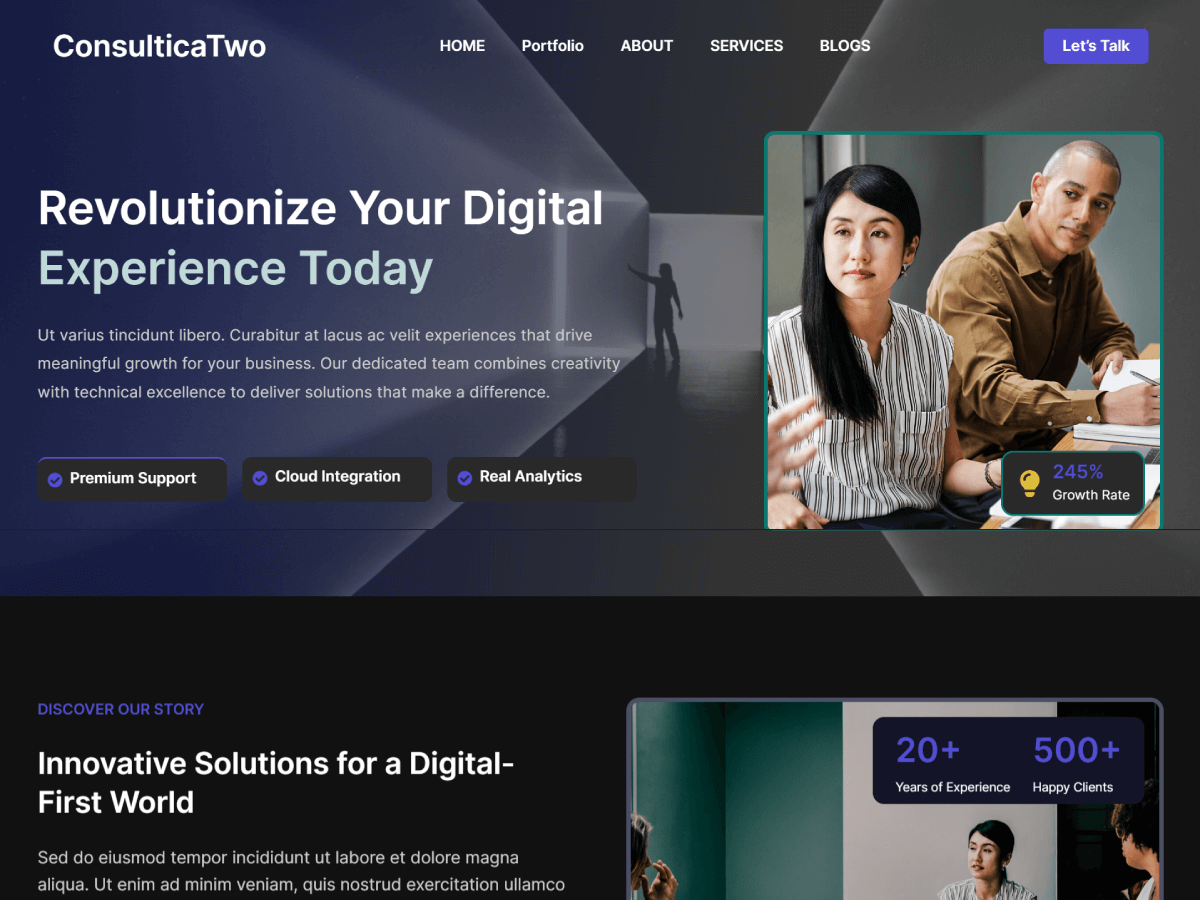
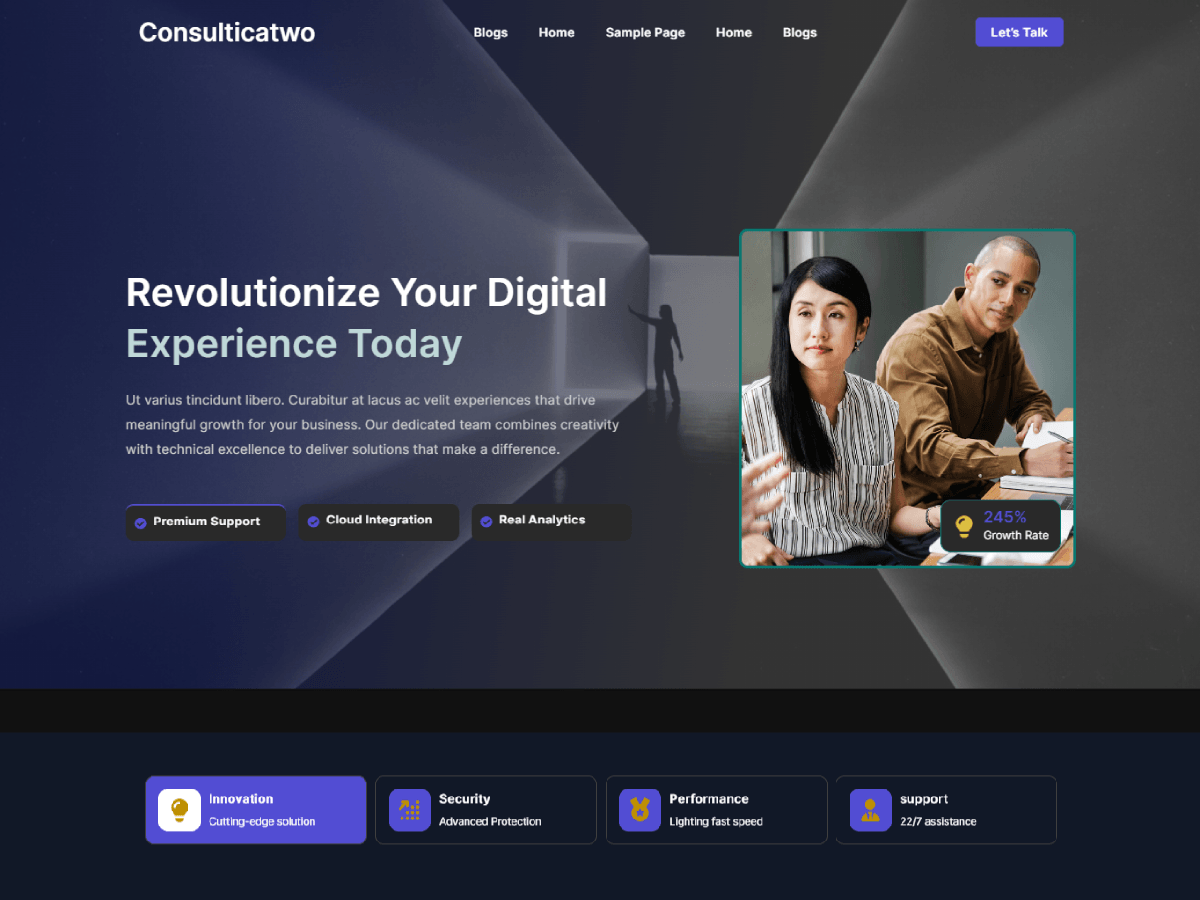
fixed

diff --git a/style.css b/style.css
@@ -3,11 +3,11 @@ Theme Name: Consulticatwo
 Theme URI: https://trendthemeswp.com/products/consultica/
 Author: Trendthemeswp 
 Author URI: https://trendthemeswp.com
-Description: Consulticatwo is a modern, professional, and performance-optimized child theme of Consultica, crafted especially for businesses, startups, and corporate service providers. With its sleek design, flexible block-based layouts, and intuitive customization options, it empowers you to create a stunning online presence that reflects your brand’s professionalism. Whether you run a consulting agency, financial firm, or any business-oriented website, consulticatwo delivers a clean, responsive, and SEO-friendly foundation to showcase your services and grow your client base with confidence.  Check the real demo:  https://demos.trendthemeswp.com/consulticatwo
+Description: Consulticatwo is a modern, professional, and performance-optimized child theme of Consultica, Consulticatwoa is a Full Site Editing (FSE) WordPress theme created for professional business and corporate websites. It features flexible block customization, responsive layouts, and pre-designed patterns and templates for key business areas.   Check the real demo:  https://demos.trendthemeswp.com/consulticatwo
 Template: consultica
-Requires at least: 5.9
-Tested up to: 6.8
-Requires PHP: 7.4
+Requires at least: 6.0
+Tested up to: 7.0
+Requires PHP: 7.0
 Version: 1.0.0
 License: GNU General Public License v2 or later
 License URI: http://www.gnu.org/licenses/gpl-2.0.html

diff --git a/patterns/features-one.php b/patterns/features-one.php
@@ -40,7 +40,7 @@
 
 <!-- wp:buttons {"style":{"spacing":{"padding":{"top":"var:preset|spacing|60"}}},"layout":{"type":"flex","justifyContent":"center"}} -->
 <div class="wp-block-buttons" style="padding-top:var(--wp--preset--spacing--60)"><!-- wp:button {"backgroundColor":"base","textColor":"assets-one","style":{"spacing":{"padding":{"top":"var:preset|spacing|20","bottom":"var:preset|spacing|20"}},"border":{"radius":"12px"},"elements":{"link":{"color":{"text":"var:preset|color|assets-one"}}}}} -->
-<div class="wp-block-button"><a class="wp-block-button__link has-assets-one-color has-base-background-color has-text-color has-background has-link-color wp-element-button" style="border-radius:12px;padding-top:var(--wp--preset--spacing--20);padding-bottom:var(--wp--preset--spacing--20)"><?php echo esc_html__('Learn More', 'consulticatwo'); ?></a></div>
+<div class="wp-block-button"><a class="wp-block-button__link has-assets-one-color has-base-background-color has-text-color has-background has-link-color wp-element-button" href="#" style="border-radius:12px;padding-top:var(--wp--preset--spacing--20);padding-bottom:var(--wp--preset--spacing--20)"><?php echo esc_html__('Learn More', 'consulticatwo'); ?></a></div>
 <!-- /wp:button --></div>
 <!-- /wp:buttons --></div>
 <!-- /wp:column -->
@@ -64,7 +64,7 @@
 
 <!-- wp:buttons {"style":{"spacing":{"padding":{"top":"var:preset|spacing|60"}}},"layout":{"type":"flex","justifyContent":"center"}} -->
 <div class="wp-block-buttons" style="padding-top:var(--wp--preset--spacing--60)"><!-- wp:button {"backgroundColor":"base","textColor":"assets-one","style":{"spacing":{"padding":{"top":"var:preset|spacing|20","bottom":"var:preset|spacing|20"}},"border":{"radius":"12px"},"elements":{"link":{"color":{"text":"var:preset|color|assets-one"}}}}} -->
-<div class="wp-block-button"><a class="wp-block-button__link has-assets-one-color has-base-background-color has-text-color has-background has-link-color wp-element-button" style="border-radius:12px;padding-top:var(--wp--preset--spacing--20);padding-bottom:var(--wp--preset--spacing--20)"><?php echo esc_html__('Learn More', 'consulticatwo'); ?></a></div>
+<div class="wp-block-button"><a class="wp-block-button__link has-assets-one-color has-base-background-color has-text-color has-background has-link-color wp-element-button" href="#" style="border-radius:12px;padding-top:var(--wp--preset--spacing--20);padding-bottom:var(--wp--preset--spacing--20)"><?php echo esc_html__('Learn More', 'consulticatwo'); ?></a></div>
 <!-- /wp:button --></div>
 <!-- /wp:buttons --></div>
 <!-- /wp:column -->
@@ -88,7 +88,7 @@
 
 <!-- wp:buttons {"style":{"spacing":{"padding":{"top":"var:preset|spacing|60"}}},"layout":{"type":"flex","justifyContent":"center"}} -->
 <div class="wp-block-buttons" style="padding-top:var(--wp--preset--spacing--60)"><!-- wp:button {"backgroundColor":"base","textColor":"assets-one","style":{"spacing":{"padding":{"top":"var:preset|spacing|20","bottom":"var:preset|spacing|20"}},"border":{"radius":"12px"},"elements":{"link":{"color":{"text":"var:preset|color|assets-one"}}}}} -->
-<div class="wp-block-button"><a class="wp-block-button__link has-assets-one-color has-base-background-color has-text-color has-background has-link-color wp-element-button" style="border-radius:12px;padding-top:var(--wp--preset--spacing--20);padding-bottom:var(--wp--preset--spacing--20)"><?php echo esc_html__('Learn More', 'consulticatwo'); ?></a></div>
+<div class="wp-block-button"><a class="wp-block-button__link has-assets-one-color has-base-background-color has-text-color has-background has-link-color wp-element-button" href="#" style="border-radius:12px;padding-top:var(--wp--preset--spacing--20);padding-bottom:var(--wp--preset--spacing--20)"><?php echo esc_html__('Learn More', 'consulticatwo'); ?></a></div>
 <!-- /wp:button --></div>
 <!-- /wp:buttons --></div>
 <!-- /wp:column --></div>
@@ -114,7 +114,7 @@
 
 <!-- wp:buttons {"style":{"spacing":{"padding":{"top":"var:preset|spacing|60"}}},"layout":{"type":"flex","justifyContent":"center"}} -->
 <div class="wp-block-buttons" style="padding-top:var(--wp--preset--spacing--60)"><!-- wp:button {"backgroundColor":"base","textColor":"assets-one","style":{"spacing":{"padding":{"top":"var:preset|spacing|20","bottom":"var:preset|spacing|20"}},"border":{"radius":"12px"},"elements":{"link":{"color":{"text":"var:preset|color|assets-one"}}}}} -->
-<div class="wp-block-button"><a class="wp-block-button__link has-assets-one-color has-base-background-color has-text-color has-background has-link-color wp-element-button" style="border-radius:12px;padding-top:var(--wp--preset--spacing--20);padding-bottom:var(--wp--preset--spacing--20)"><?php echo esc_html__('Learn More', 'consulticatwo'); ?></a></div>
+<div class="wp-block-button"><a class="wp-block-button__link has-assets-one-color has-base-background-color has-text-color has-background has-link-color wp-element-button" href="#" style="border-radius:12px;padding-top:var(--wp--preset--spacing--20);padding-bottom:var(--wp--preset--spacing--20)"><?php echo esc_html__('Learn More', 'consulticatwo'); ?></a></div>
 <!-- /wp:button --></div>
 <!-- /wp:buttons --></div>
 <!-- /wp:column -->
@@ -138,7 +138,7 @@
 
 <!-- wp:buttons {"style":{"spacing":{"padding":{"top":"var:preset|spacing|60"}}},"layout":{"type":"flex","justifyContent":"center"}} -->
 <div class="wp-block-buttons" style="padding-top:var(--wp--preset--spacing--60)"><!-- wp:button {"backgroundColor":"base","textColor":"assets-one","style":{"spacing":{"padding":{"top":"var:preset|spacing|20","bottom":"var:preset|spacing|20"}},"border":{"radius":"12px"},"elements":{"link":{"color":{"text":"var:preset|color|assets-one"}}}}} -->
-<div class="wp-block-button"><a class="wp-block-button__link has-assets-one-color has-base-background-color has-text-color has-background has-link-color wp-element-button" style="border-radius:12px;padding-top:var(--wp--preset--spacing--20);padding-bottom:var(--wp--preset--spacing--20)"><?php echo esc_html__('Learn More', 'consulticatwo'); ?></a></div>
+<div class="wp-block-button"><a class="wp-block-button__link has-assets-one-color has-base-background-color has-text-color has-background has-link-color wp-element-button" href="#" style="border-radius:12px;padding-top:var(--wp--preset--spacing--20);padding-bottom:var(--wp--preset--spacing--20)"><?php echo esc_html__('Learn More', 'consulticatwo'); ?></a></div>
 <!-- /wp:button --></div>
 <!-- /wp:buttons --></div>
 <!-- /wp:column -->
@@ -162,7 +162,7 @@
 
 <!-- wp:buttons {"style":{"spacing":{"padding":{"top":"var:preset|spacing|60"}}},"layout":{"type":"flex","justifyContent":"center"}} -->
 <div class="wp-block-buttons" style="padding-top:var(--wp--preset--spacing--60)"><!-- wp:button {"backgroundColor":"base","textColor":"assets-one","style":{"spacing":{"padding":{"top":"var:preset|spacing|20","bottom":"var:preset|spacing|20"}},"border":{"radius":"12px"},"elements":{"link":{"color":{"text":"var:preset|color|assets-one"}}}}} -->
-<div class="wp-block-button"><a class="wp-block-button__link has-assets-one-color has-base-background-color has-text-color has-background has-link-color wp-element-button" style="border-radius:12px;padding-top:var(--wp--preset--spacing--20);padding-bottom:var(--wp--preset--spacing--20)"><?php echo esc_html__('Learn More', 'consulticatwo'); ?></a></div>
+<div class="wp-block-button"><a class="wp-block-button__link has-assets-one-color has-base-background-color has-text-color has-background has-link-color wp-element-button"  href="#" style="border-radius:12px;padding-top:var(--wp--preset--spacing--20);padding-bottom:var(--wp--preset--spacing--20)"><?php echo esc_html__('Learn More', 'consulticatwo'); ?></a></div>
 <!-- /wp:button --></div>
 <!-- /wp:buttons --></div>
 <!-- /wp:column --></div>

diff --git a/patterns/call-to-action-one.php b/patterns/call-to-action-one.php
@@ -12,7 +12,7 @@
 <div class="wp-block-cover has-parallax"><div class="wp-block-cover__image-background wp-image-5279 size-large has-parallax" style="background-position:50% 50%;background-image:url(<?php echo esc_url( get_stylesheet_directory_uri() );?>/assets/images/banner.jpg)"></div><span aria-hidden="true" class="wp-block-cover__background has-primary-background-color has-background-dim-80 has-background-dim"></span><div class="wp-block-cover__inner-container"><!-- wp:group {"style":{"spacing":{"padding":{"top":"var:preset|spacing|80","bottom":"var:preset|spacing|80","left":"var:preset|spacing|30","right":"var:preset|spacing|30"}}},"layout":{"type":"constrained"}} -->
 <div class="wp-block-group" style="padding-top:var(--wp--preset--spacing--80);padding-right:var(--wp--preset--spacing--30);padding-bottom:var(--wp--preset--spacing--80);padding-left:var(--wp--preset--spacing--30)"><!-- wp:buttons {"style":{"spacing":{"margin":{"top":"var:preset|spacing|40"}}},"layout":{"type":"flex","justifyContent":"center"}} -->
 <div class="wp-block-buttons" style="margin-top:var(--wp--preset--spacing--40)"><!-- wp:button {"backgroundColor":"base","textColor":"primary","style":{"elements":{"link":{"color":{"text":"var:preset|color|primary"}}},"typography":{"fontSize":"12px","fontStyle":"normal","fontWeight":"700","lineHeight":"1.6"},"spacing":{"padding":{"left":"var:preset|spacing|30","right":"var:preset|spacing|30","top":"0","bottom":"0"}}}} -->
-<div class="wp-block-button"><a class="wp-block-button__link has-primary-color has-base-background-color has-text-color has-background has-link-color has-custom-font-size wp-element-button" style="padding-top:0;padding-right:var(--wp--preset--spacing--30);padding-bottom:0;padding-left:var(--wp--preset--spacing--30);font-size:12px;font-style:normal;font-weight:700;line-height:1.6"><?php echo esc_html__('Call to Action', 'consulticatwo'); ?></a></div>
+<div class="wp-block-button"><a class="wp-block-button__link has-primary-color has-base-background-color has-text-color has-background has-link-color has-custom-font-size wp-element-button" href="#" style="padding-top:0;padding-right:var(--wp--preset--spacing--30);padding-bottom:0;padding-left:var(--wp--preset--spacing--30);font-size:12px;font-style:normal;font-weight:700;line-height:1.6"><?php echo esc_html__('Call to Action', 'consulticatwo'); ?></a></div>
 <!-- /wp:button --></div>
 <!-- /wp:buttons -->
 
@@ -29,13 +29,13 @@
 <!-- wp:group {"style":{"spacing":{"margin":{"top":"var:preset|spacing|80"},"blockGap":"var:preset|spacing|70"}},"layout":{"type":"flex","flexWrap":"wrap","justifyContent":"center"}} -->
 <div class="wp-block-group" style="margin-top:var(--wp--preset--spacing--80)"><!-- wp:buttons -->
 <div class="wp-block-buttons"><!-- wp:button {"style":{"border":{"radius":"6px"},"typography":{"fontStyle":"normal","fontWeight":"400"},"spacing":{"padding":{"left":"var:preset|spacing|50","right":"var:preset|spacing|50","top":"var:preset|spacing|30","bottom":"var:preset|spacing|30"}}},"fontSize":"small","fontFamily":"hind"} -->
-<div class="wp-block-button"><a class="wp-block-button__link has-hind-font-family has-small-font-size has-custom-font-size wp-element-button" style="border-radius:6px;padding-top:var(--wp--preset--spacing--30);padding-right:var(--wp--preset--spacing--50);padding-bottom:var(--wp--preset--spacing--30);padding-left:var(--wp--preset--spacing--50);font-style:normal;font-weight:400"><?php echo esc_html__('Try It Now', 'consulticatwo'); ?></a></div>
+<div class="wp-block-button"><a class="wp-block-button__link has-hind-font-family has-small-font-size has-custom-font-size wp-element-button" href="#" style="border-radius:6px;padding-top:var(--wp--preset--spacing--30);padding-right:var(--wp--preset--spacing--50);padding-bottom:var(--wp--preset--spacing--30);padding-left:var(--wp--preset--spacing--50);font-style:normal;font-weight:400"><?php echo esc_html__('Try It Now', 'consulticatwo'); ?></a></div>
 <!-- /wp:button --></div>
 <!-- /wp:buttons -->
 
 <!-- wp:buttons -->
 <div class="wp-block-buttons"><!-- wp:button {"className":"is-style-outline","style":{"border":{"radius":"6px","width":"2px"},"typography":{"fontStyle":"normal","fontWeight":"400"},"spacing":{"padding":{"left":"var:preset|spacing|60","right":"var:preset|spacing|60","top":"var:preset|spacing|30","bottom":"var:preset|spacing|30"}}},"fontSize":"small","fontFamily":"hind","borderColor":"Assets one"} -->
-<div class="wp-block-button is-style-outline"><a class="wp-block-button__link has-border-color has-assets-one-border-color has-hind-font-family has-small-font-size has-custom-font-size wp-element-button" style="border-width:2px;border-radius:6px;padding-top:var(--wp--preset--spacing--30);padding-right:var(--wp--preset--spacing--60);padding-bottom:var(--wp--preset--spacing--30);padding-left:var(--wp--preset--spacing--60);font-style:normal;font-weight:400"><?php echo esc_html__('Contact Us', 'consulticatwo'); ?></a></div>
+<div class="wp-block-button is-style-outline"><a class="wp-block-button__link has-border-color has-assets-one-border-color has-hind-font-family has-small-font-size has-custom-font-size wp-element-button" href="#" style="border-width:2px;border-radius:6px;padding-top:var(--wp--preset--spacing--30);padding-right:var(--wp--preset--spacing--60);padding-bottom:var(--wp--preset--spacing--30);padding-left:var(--wp--preset--spacing--60);font-style:normal;font-weight:400"><?php echo esc_html__('Contact Us', 'consulticatwo'); ?></a></div>
 <!-- /wp:button --></div>
 <!-- /wp:buttons --></div>
 <!-- /wp:group --></div>

diff --git a/patterns/banner-one.php b/patterns/banner-one.php
@@ -20,7 +20,7 @@
 <!-- wp:group {"style":{"typography":{"lineHeight":"1"},"elements":{"link":{"color":{"text":"var:preset|color|base"}}}},"textColor":"base","layout":{"type":"flex","flexWrap":"wrap"}} -->
 <div class="wp-block-group has-base-color has-text-color has-link-color" style="line-height:1"><!-- wp:buttons -->
 <div class="wp-block-buttons"><!-- wp:button {"textColor":"base","className":"is-style-fill","style":{"border":{"radius":"6px"},"typography":{"fontStyle":"normal","fontWeight":"400"},"spacing":{"padding":{"left":"var:preset|spacing|40","right":"var:preset|spacing|40","top":"var:preset|spacing|20","bottom":"var:preset|spacing|20"}},"elements":{"link":{"color":{"text":"var:preset|color|base"}}}},"fontSize":"small","fontFamily":"hind"} -->
-<div class="wp-block-button is-style-fill"><a class="wp-block-button__link has-base-color has-text-color has-link-color has-hind-font-family has-small-font-size has-custom-font-size wp-element-button" style="border-radius:6px;padding-top:var(--wp--preset--spacing--20);padding-right:var(--wp--preset--spacing--40);padding-bottom:var(--wp--preset--spacing--20);padding-left:var(--wp--preset--spacing--40);font-style:normal;font-weight:400"><?php echo esc_html__("Let's Talk", 'consulticatwo'); ?></a></div>
+<div class="wp-block-button is-style-fill"><a class="wp-block-button__link has-base-color has-text-color has-link-color has-hind-font-family has-small-font-size has-custom-font-size wp-element-button" href="#" style="border-radius:6px;padding-top:var(--wp--preset--spacing--20);padding-right:var(--wp--preset--spacing--40);padding-bottom:var(--wp--preset--spacing--20);padding-left:var(--wp--preset--spacing--40);font-style:normal;font-weight:400"><?php echo esc_html__("Let's Talk", 'consulticatwo'); ?></a></div>
 <!-- /wp:button --></div>
 <!-- /wp:buttons --></div>
 <!-- /wp:group --></div>

diff --git a/patterns/attributes-one.php b/patterns/attributes-one.php
@@ -167,7 +167,7 @@
 
 <!-- wp:buttons {"style":{"spacing":{"margin":{"top":"var:preset|spacing|60"}}},"layout":{"type":"flex","verticalAlignment":"top"}} -->
 <div class="wp-block-buttons" style="margin-top:var(--wp--preset--spacing--60)"><!-- wp:button {"textColor":"base","style":{"border":{"radius":"6px"},"typography":{"fontStyle":"normal","fontWeight":"400"},"spacing":{"padding":{"left":"var:preset|spacing|40","right":"var:preset|spacing|40","top":"var:preset|spacing|30","bottom":"var:preset|spacing|30"}},"elements":{"link":{"color":{"text":"var:preset|color|base"}}}},"fontSize":"small","fontFamily":"hind"} -->
-<div class="wp-block-button"><a class="wp-block-button__link has-base-color has-text-color has-link-color has-hind-font-family has-small-font-size has-custom-font-size wp-element-button" style="border-radius:6px;padding-top:var(--wp--preset--spacing--30);padding-right:var(--wp--preset--spacing--40);padding-bottom:var(--wp--preset--spacing--30);padding-left:var(--wp--preset--spacing--40);font-style:normal;font-weight:400">Learn More</a></div>
+<div class="wp-block-button"><a class="wp-block-button__link has-base-color has-text-color has-link-color has-hind-font-family has-small-font-size has-custom-font-size wp-element-button" style="border-radius:6px;padding-top:var(--wp--preset--spacing--30);padding-right:var(--wp--preset--spacing--40);padding-bottom:var(--wp--preset--spacing--30);padding-left:var(--wp--preset--spacing--40);font-style:normal;font-weight:400"><?php echo esc_html__('', 'consulticatwo'); ?></a></div>
 <!-- /wp:button --></div>
 <!-- /wp:buttons --></div>
 <!-- /wp:column -->

diff --git a/patterns/dontmiss-one.php b/patterns/dontmiss-one.php
@@ -39,7 +39,7 @@
 
 <!-- wp:buttons {"style":{"spacing":{"padding":{"top":"var:preset|spacing|50"}}}} -->
 <div class="wp-block-buttons" style="padding-top:var(--wp--preset--spacing--50)"><!-- wp:button -->
-<div class="wp-block-button"><a class="wp-block-button__link wp-element-button"><?php echo esc_html__('Discover More', 'consulticatwo'); ?></a></div>
+<div class="wp-block-button"><a class="wp-block-button__link wp-element-button" href="#"><?php echo esc_html__('Discover More', 'consulticatwo'); ?></a></div>
 <!-- /wp:button --></div>
 <!-- /wp:buttons --></div>
 <!-- /wp:column -->

diff --git a/functions.php b/functions.php
@@ -62,7 +62,14 @@ function consulticatwo_register_pattern_category() {
 }
 add_action( 'init', 'consulticatwo_register_pattern_category');
 
-
-
+// Remove parent theme admin notice.
+add_action( 'admin_init', function () {
+    if ( isset( $GLOBALS['consultica_admin_info'] ) ) {
+        remove_action(
+            'admin_notices',
+            array( $GLOBALS['consultica_admin_info'], 'compatible_check' )
+        );
+    }
+} );
 
 
